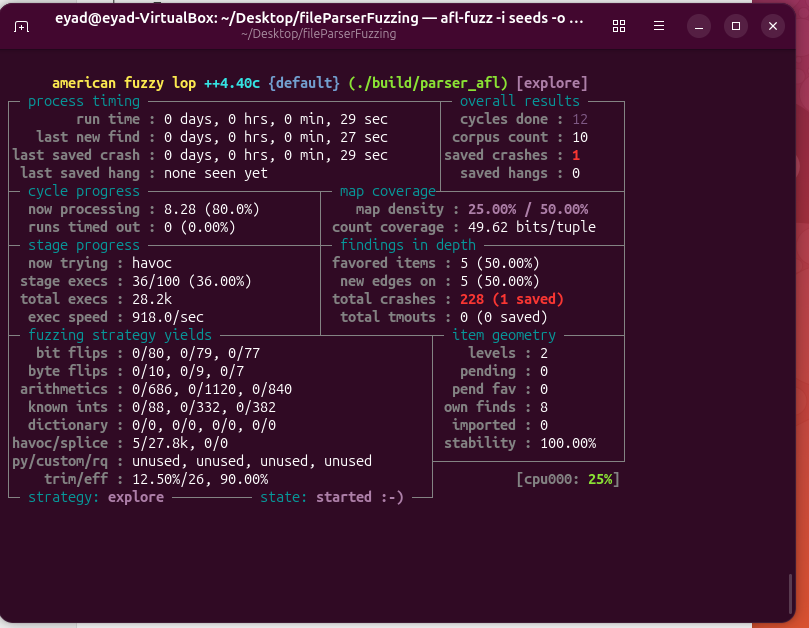
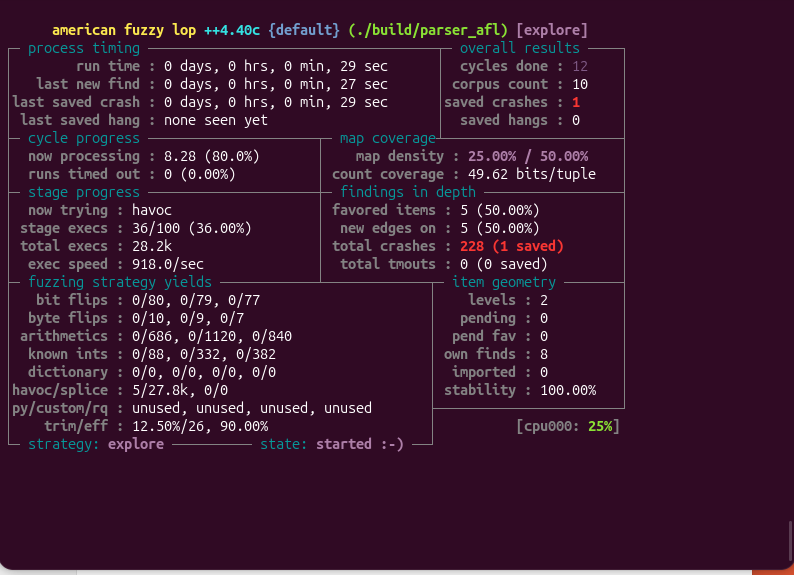
Step 4: Fix buffer overflow and verify with AFL++

Changed region(s): [[0.0, 0.0, 1.0, 1.0], [0.7557, 0.473, 0.7859, 0.5026]]

diff --git a/secure_parser.c b/secure_parser.c
@@ -1,0 +1,66 @@
+
+#include <stdio.h>
+#include <stdint.h>
+#include <string.h>
+
+int main(int argc, char *argv[]) {
+
+    if (argc != 2) {
+        printf("Usage: %s <file>\n", argv[0]);
+        return 1;
+    }
+
+    FILE *file = fopen(argv[1], "rb");
+
+    if (file == NULL) {
+        perror("File error");
+        return 1;
+    }
+
+    unsigned char input[1024];
+
+    size_t size = fread(input, 1, sizeof(input), file);
+
+    if (ferror(file)) {
+        perror("File read error");
+        fclose(file);
+        return 1;
+    }
+
+    fclose(file);
+
+    // Validate the header
+    if (size < 5 || memcmp(input, "FUZ1", 4) != 0) {
+        printf("Invalid file format\n");
+        return 1;
+    }
+
+    uint8_t length = input[4];
+
+    // Verify that enough payload data exists
+    if ((size_t)length > size - 5) {
+        printf("Incomplete file\n");
+        return 1;
+    }
+
+    unsigned char buffer[32];
+
+    // SECURITY FIX: Check destination capacity
+    if ((size_t)length > sizeof(buffer)) {
+        printf("Error: Payload exceeds buffer capacity\n");
+        return 1;
+    }
+
+    memcpy(buffer, input + 5, length);
+
+    unsigned int checksum = 0;
+
+    for (size_t i = 0; i < length; i++) {
+        checksum += buffer[i];
+    }
+
+    printf("Successfully parsed %u bytes (checksum: %u)\n",
+           length, checksum);
+
+    return 0;
+}

diff --git a/docs/step4-secure-parser.md b/docs/step4-secure-parser.md
@@ -1,0 +1,150 @@
+# Step 4 — Secure Parser Implementation and Validation
+
+## Objective
+
+Fix the **stack-based buffer overflow (CWE-121)** identified in the original C file parser, verify the patch using the previously crashing inputs, and run a second AFL++ campaign against the corrected implementation.
+
+This phase builds on:
+
+- [Step 1 — AFL++ fuzzing and ASan](step1-fuzzing.md)
+- [Step 2 — GDB crash analysis](step2-gdb-analysis.md)
+- [Step 3 — CodeQL static analysis](step3-codeql-analysis.md)
+
+## Environment and tools
+
+| Component | Used in this phase |
+| --- | --- |
+| Operating system | Ubuntu Linux (VirtualBox) |
+| Language | C |
+| AFL++ | 4.40c |
+| Compiler | `afl-clang-fast` (LLVM PCGUARD instrumentation) |
+| Memory checking | AddressSanitizer (ASan) |
+| Vulnerable source | `parser.c` |
+| Patched source | `secure_parser.c` |
+| Fuzzer input corpus | `seeds/` |
+
+## Root cause and fix
+
+The original parser read a payload length directly from the fifth byte of a binary input file. Although the parser checked that enough bytes were present in the *input*, it did not verify that the *destination* had sufficient capacity:
+
+```c
+unsigned char buffer[32];
+memcpy(buffer, input + 5, length);
+```
+
+For example, the AFL++-generated crash declared `length = 37`, but the destination could store only 32 bytes. The copy attempted to write **5 bytes beyond the buffer**.
+
+The patched implementation preserves the existing file format but validates the destination capacity **before** copying:
+
+```c
+unsigned char buffer[32];
+
+if ((size_t)length > sizeof(buffer)) {
+    printf("Error: Payload exceeds buffer capacity\n");
+    return 1;
+}
+
+memcpy(buffer, input + 5, length);
+```
+
+The patched parser also checks `ferror(file)` after `fread()` and uses a subtraction-based input-length validation after verifying that the file contains the five-byte header:
+
+```c
+if ((size_t)length > size - 5) {
+    printf("Incomplete file\n");
+    return 1;
+}
+```
+
+These changes address the confirmed overflow and improve input handling. They should not be interpreted as a complete security audit of every possible file-system or parser behavior.
+
+## Building the secure parser
+
+From the repository root:
+
+```bash
+mkdir -p build
+AFL_USE_ASAN=1 afl-clang-fast -g -O1 \
+  -fno-omit-frame-pointer \
+  secure_parser.c -o build/parser_secure_afl
+```
+
+The build completed successfully and reported **12 instrumented locations**, using LLVM PCGUARD in ASan mode.
+
+## Regression tests
+
+The patched executable was tested with a valid input and two inputs known to trigger the original vulnerability.
+
+| Test case | Input | Observed result |
+| --- | --- | --- |
+| Valid seed | `seeds/valid.bin` (5-byte payload) | `Successfully parsed 5 bytes (checksum: 532)` |
+| Manually constructed oversized input | `tests/overflow.bin` (50-byte payload) | `Error: Payload exceeds buffer capacity` |
+| AFL++-generated crash | One 42-byte crash file from `fuzz_output_round2/default/crashes/` (37-byte payload) | `Error: Payload exceeds buffer capacity` |
+
+Commands used:
+
+```bash
+./build/parser_secure_afl seeds/valid.bin
+./build/parser_secure_afl tests/overflow.bin
+
+CRASH=$(find fuzz_output_round2/default/crashes \
+  -maxdepth 1 -type f -name 'id:*' -print -quit)
+./build/parser_secure_afl "$CRASH"
+```
+
+**Result:** Both oversized payloads were rejected cleanly; neither produced an ASan report in the observed tests. A non-zero exit status for rejected input is expected behavior.
+
+## Secure-parser AFL++ campaign
+
+Command:
+
+```bash
+afl-fuzz -i seeds -o fuzz_output_secure -m none \
+  -- ./build/parser_secure_afl @@
+```
+
+The fuzzer was stopped manually using `Ctrl+C` after approximately **10 minutes 43 seconds**. AFL++ saved its state for resumption.
+
+### Observed results
+
+| Metric | Secure parser |
+| --- | ---: |
+| Run time | 10 min 43 sec |
+| Total executions | Approximately 590,000 |
+| Execution speed at capture | 871.8/sec |
+| Corpus count | 11 |
+| Cycles completed | 438 |
+| Saved unique crashes | **0** |
+| Saved hangs | **0** |
+| Stability | **100%** |
+
+### AFL++ dashboard evidence
+
+![AFL++ dashboard after fuzzing the patched parser: approximately 590K executions, zero saved crashes, zero hangs, and 100% stability](screenshots/afl-secure-parser.png)
+
+*Figure 1. Terminal screenshot from the secure-parser fuzzing campaign. No crashes or hangs were reported during this run.*
+
+## Before and after
+
+| Metric | Vulnerable `parser.c` | Patched `secure_parser.c` |
+| --- | --- | --- |
+| Fuzzing run time | Approx. 29 sec | Approx. 10 min 43 sec |
+| Total executions | Approx. 28,200 | Approx. 590,000 |
+| AFL++ saved unique crashes | **1** | **0** |
+| Crashing executions shown | 228 | 0 |
+| ASan reproduction with saved crash | Stack-buffer-overflow, 37-byte write | Oversized payload rejected |
+| GDB root-cause analysis | 37 bytes requested, 32-byte buffer | Destination size is checked before `memcpy` |
+
+**Interpretation:** The patched parser rejects the known crashing inputs and no crashes were discovered in the observed secure-parser fuzzing campaign. Because the two campaigns had different durations and explored different test cases, this comparison is evidence for the fix **but not proof that the parser is free of all vulnerabilities**.
+
+## Remaining security considerations
+
+CodeQL previously reported a potential `cpp/path-injection` issue because the application passes a caller-provided filename to `fopen()`. The fixed parser deliberately retains this command-line file-path interface, so that separate finding is **not remediated** here. Its relevance depends on who is allowed to supply file paths and whether file access must be restricted to a trusted directory.
+
+The parser currently reads up to 1,024 bytes; support for larger files or strict rejection of trailing data would require a separate format-handling decision.
+
+## Conclusion
+
+Step 4 demonstrates a reproducible remediation workflow: use AFL++ and ASan to establish a memory-safety defect, confirm the cause using GDB, add a bound check in a separate secure implementation, rerun the original crashing input, and perform another fuzzing campaign. The observed data supports successful mitigation of the **confirmed 32-byte stack-buffer overflow**.
+
+**Scope:** Educational testing in a controlled local environment.

diff --git a/README.md b/README.md
@@ -1,0 +1,63 @@
+# File Parser Fuzzing Lab
+
+A hands-on cybersecurity project exploring **memory-safety vulnerabilities in C** through coverage-guided fuzzing, runtime sanitizers, debugging, static analysis, and remediation.
+
+> **Educational lab:** `parser.c` contains an intentional vulnerability. Do not use it to process untrusted files in production.
+
+## Technologies
+
+C · AFL++ · AddressSanitizer (ASan) · GDB · CodeQL · Ubuntu Linux
+
+## Project workflow
+
+| Phase | Documentation | Status |
+| --- | --- | --- |
+| 1. Vulnerability discovery | [AFL++ and ASan](docs/step1-fuzzing.md) | Completed |
+| 2. Crash investigation | [GDB analysis](docs/step2-gdb-analysis.md) | Completed |
+| 3. Static analysis | [CodeQL scan](docs/step3-codeql-analysis.md) | Completed |
+| 4. Secure implementation and validation | [Secure parser](docs/step4-secure-parser.md) | Completed for the reported tests |
+
+## Vulnerability and results
+
+The custom binary format consists of a four-byte magic header (`FUZ1`), a one-byte payload length, and payload bytes. The vulnerable parser copies a user-controlled number of bytes into a 32-byte stack buffer without checking its capacity.
+
+- **CWE-121:** Stack-based buffer overflow in `parser.c` (`memcpy`).
+- **AFL++:** Found one unique crash in the vulnerable-parser campaign.
+- **ASan and GDB:** Confirmed a 37-byte copy into a 32-byte buffer (5 bytes out of bounds).
+- **CodeQL:** Reported a separate potential `cpp/path-injection` concern involving `fopen(argv[1], "rb")`; the selected query suite did not flag the confirmed buffer overflow.
+- **Patched parser:** Rejects both known oversized test inputs; approximately 590,000 fuzzing executions in 10m 43s found zero crashes in the observed run.
+
+![AFL++ secure-parser fuzzing results](docs/screenshots/afl-secure-parser.png)
+
+*Secure-parser campaign: 0 saved crashes in the observed run. Zero detected crashes is not a guarantee of complete security.*
+
+## Build
+
+```bash
+mkdir -p build
+AFL_USE_ASAN=1 afl-clang-fast -g -O1 -fno-omit-frame-pointer \
+  parser.c -o build/parser_afl
+AFL_USE_ASAN=1 afl-clang-fast -g -O1 -fno-omit-frame-pointer \
+  secure_parser.c -o build/parser_secure_afl
+```
+
+## Test
+
+```bash
+./build/parser_secure_afl seeds/valid.bin
+# Optional: after preparing tests/overflow.bin
+./build/parser_secure_afl tests/overflow.bin
+```
+
+## Fuzz
+
+```bash
+afl-fuzz -i seeds -o fuzz_output_secure -m none \
+  -- ./build/parser_secure_afl @@
+```
+
+AFL++ may require a temporary Linux `core_pattern` configuration adjustment; see its diagnostic message. Generated builds, fuzzing outputs, and CodeQL databases should remain outside version control.
+
+## Scope and limitations
+
+The patched version addresses the confirmed stack-buffer overflow. It does **not** resolve the separate, context-dependent CodeQL path-injection finding, and a finite fuzzing run cannot establish the absence of every vulnerability.
